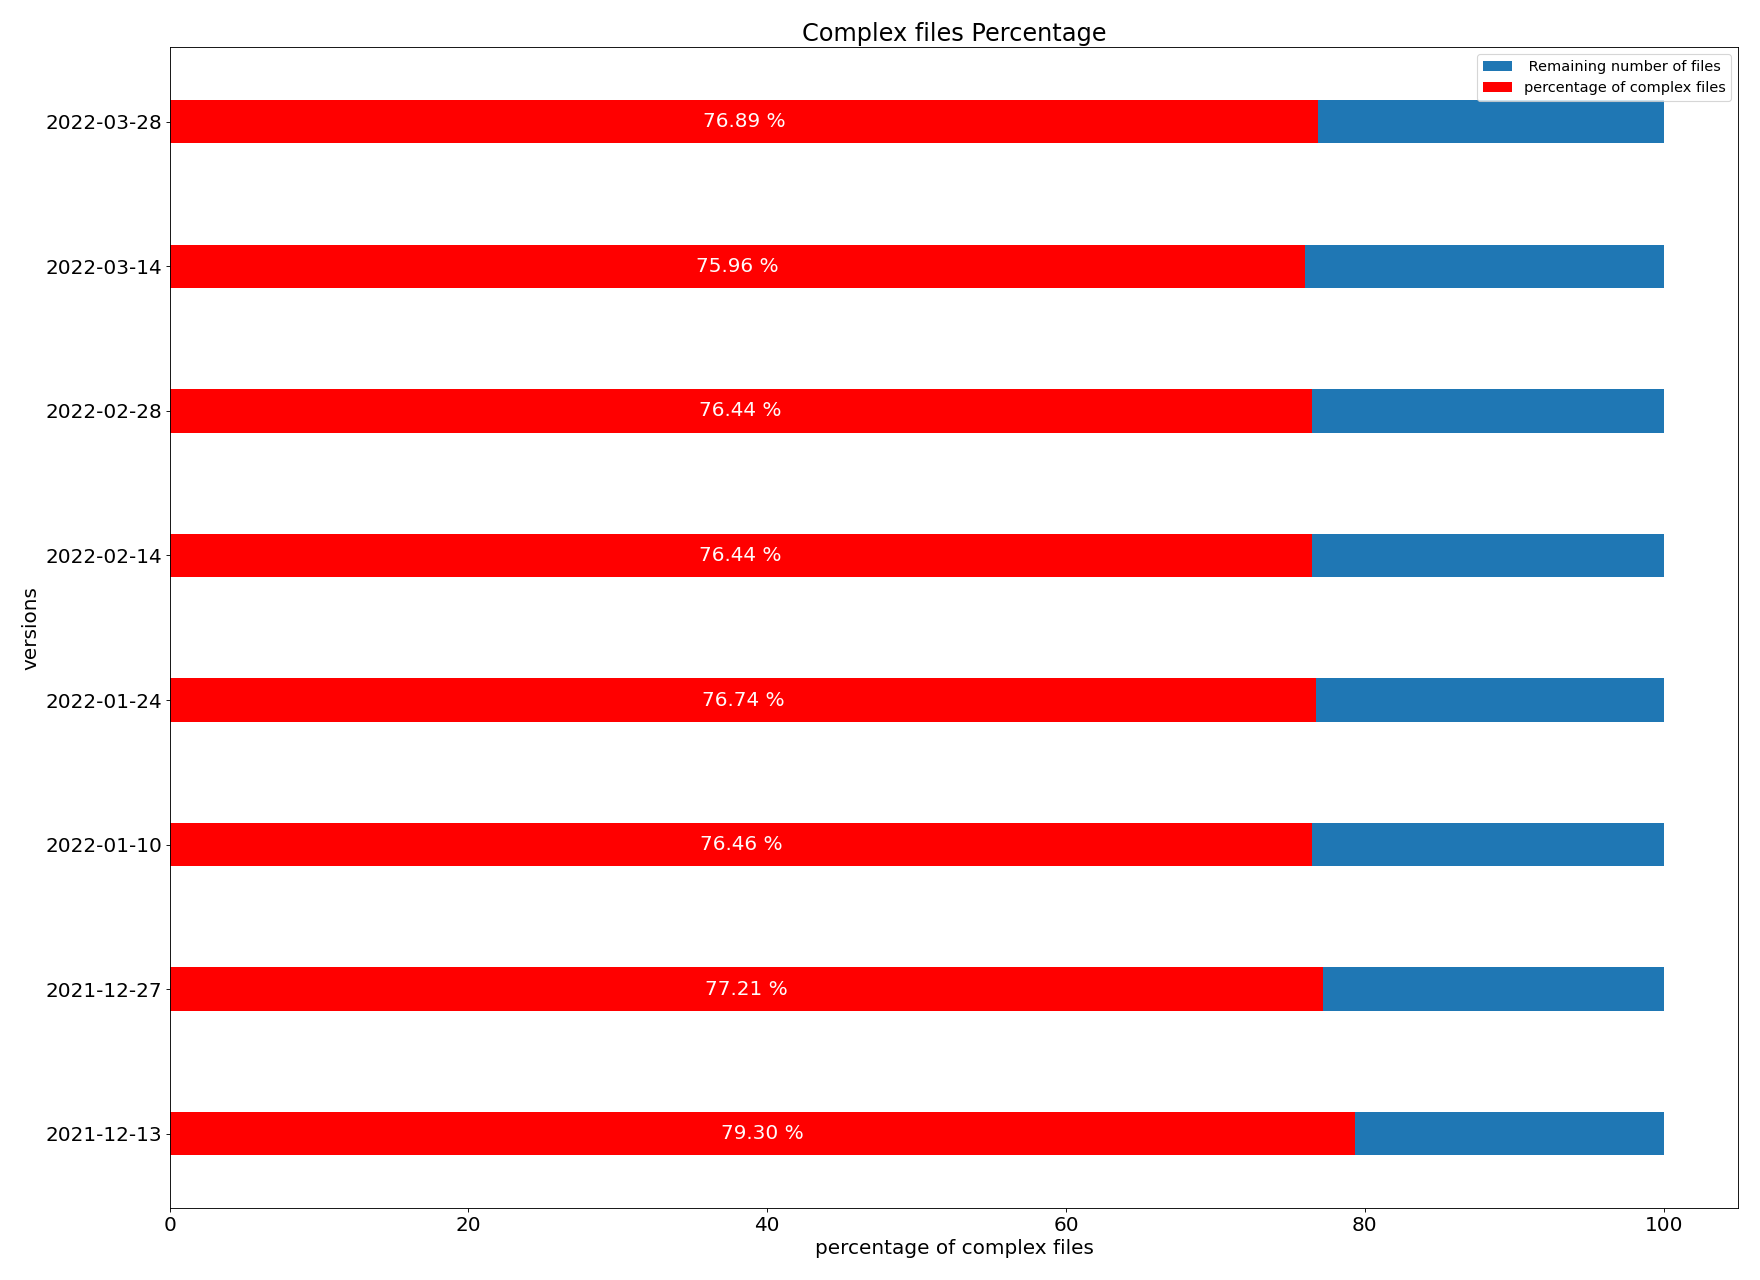
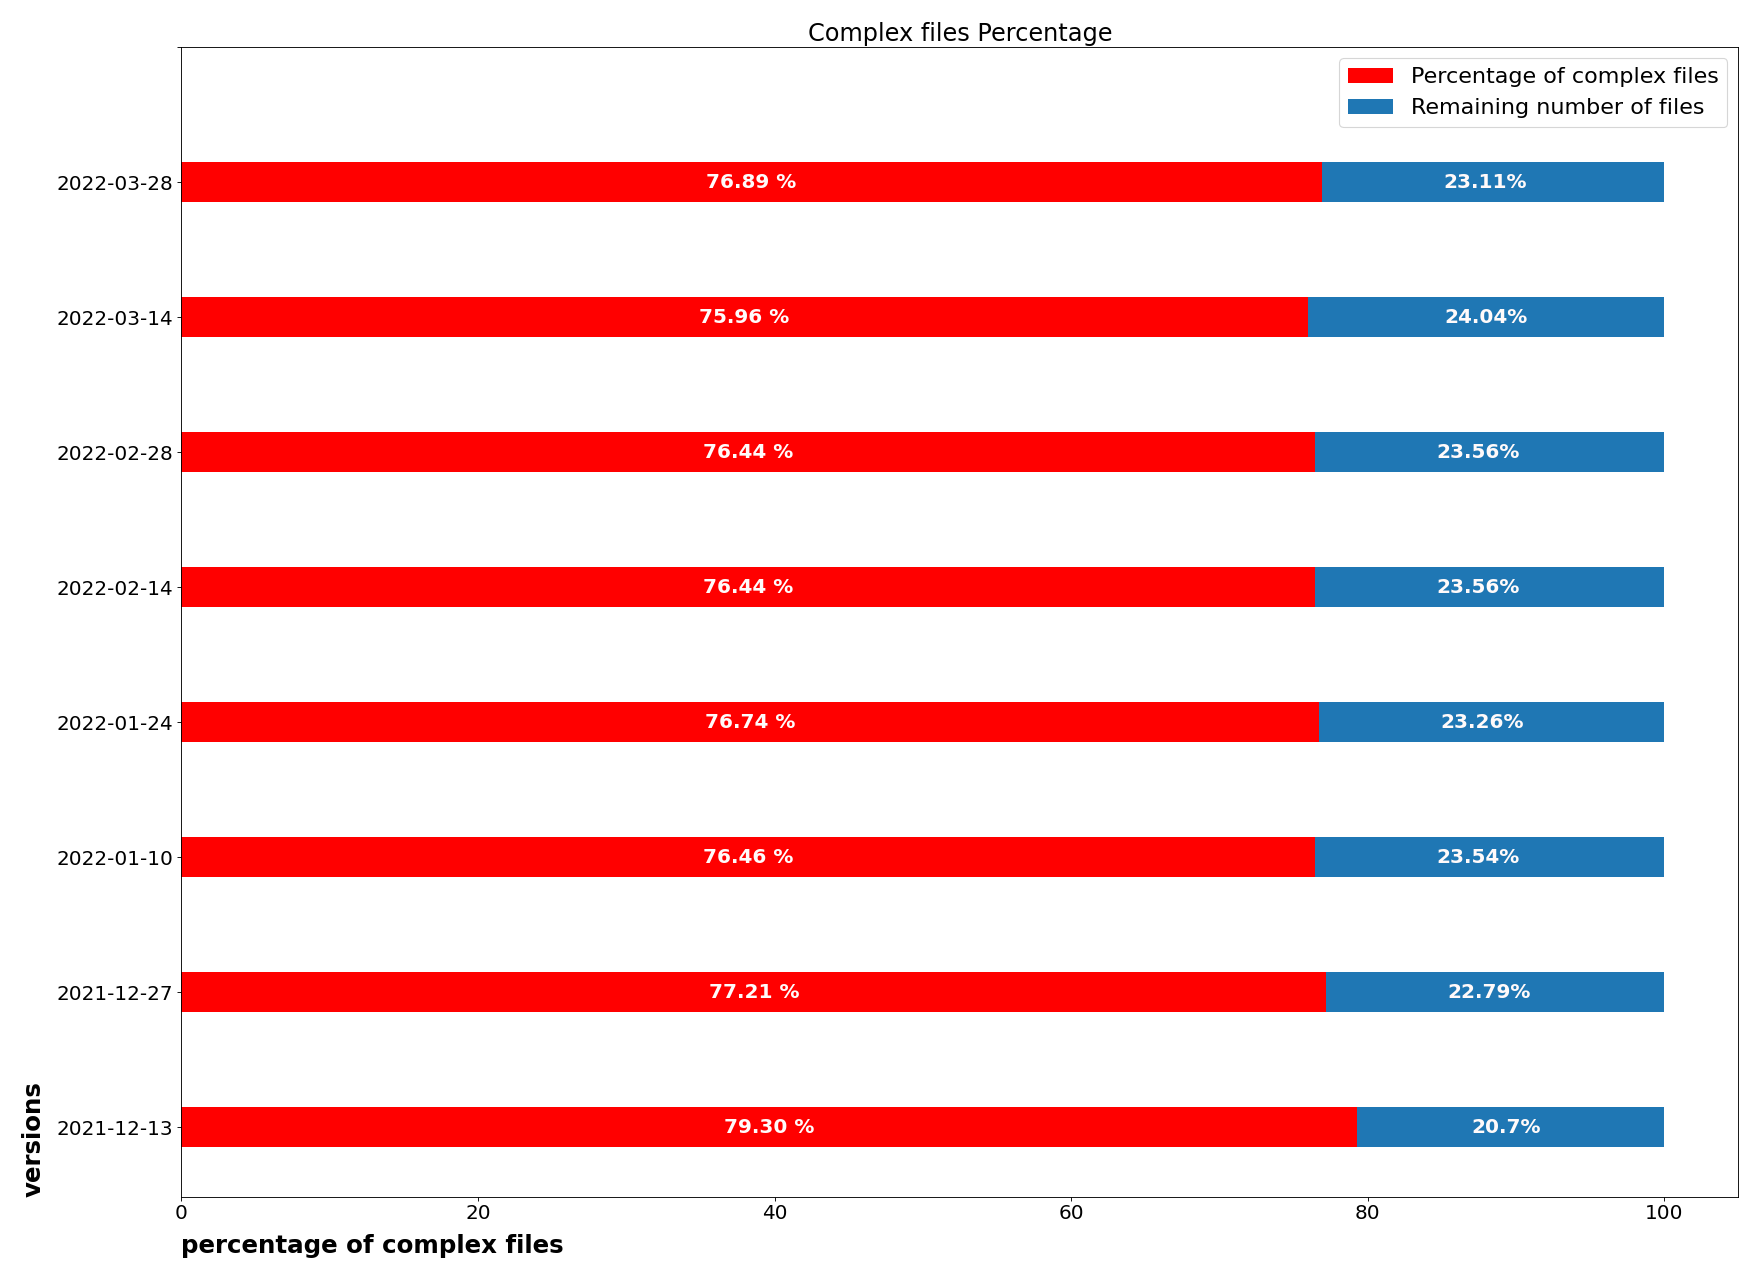
Final changes to files graphs

diff --git a/time-analysis.py b/time-analysis.py
@@ -1,5 +1,6 @@
 import os
 import csv
+from importlib_metadata import version
 import numpy as np
 import matplotlib.pyplot as plt
 from matplotlib.pyplot import figure
@@ -43,17 +44,22 @@ def plot_complex(versions,complex,total,img_path):
     figure(figsize=(22,16), dpi=80)
     #bar1=plt.bar(versions, total, 0.4, label="Remaining number of files")
     #bar2=plt.bar(versions, complex, 0.4,color="r", label="number of complex files")
-    #for i in range(0,len(versions)):
+    for i in range(0,len(versions)):
         #plt.text(i, complex[i]//2,str(complex[i]), color='black', ha='center', fontweight='bold')
-        #plt.text(i, (total[i]-complex[i])//2 +complex[i],str(total[i]), color='black', ha='center', fontweight='bold')
+        plt.text( (total[i]-complex[i])//2 +complex[i],i,str(total[i]-complex[i]), color='snow', va='center',ha='center',fontweight='bold')
     bar1=plt.barh(versions, total, 0.4, label="Remaining number of files")
-    bar2=plt.barh(versions, complex, 0.4,color="r", label="number of complex files")
-    plt.bar_label(bar1,label_type='center',padding=500,color="snow")
-    plt.bar_label(bar2,label_type='center',color="snow")
-    plt.ylabel("versions")
-    plt.xlabel("number of complex files")
+    bar2=plt.barh(versions, complex, 0.4,color="r", label="Number of complex files")
+    plt.bar_label(bar1,padding=5,fontweight='bold')
+    plt.bar_label(bar2,label_type='center',color="snow",fontweight='bold')
+    yt=versions.copy()
+    yt.append("")
+    plt.yticks(yt)
+    plt.ylabel("versions",loc='bottom',labelpad = 10,fontweight='bold',fontsize=22)
+    plt.xlabel("number of complex files",loc='left',labelpad = 10,fontweight='bold',fontsize=22)
     plt.title("Complex files")
-    plt.legend(loc='upper right',prop={'size': 13})
+    handles, labels = plt.gca().get_legend_handles_labels()
+    order = [1,0]
+    plt.legend([handles[idx] for idx in order],[labels[idx] for idx in order],loc='upper right',prop={'size': 20})
     plt.savefig(img_path)
     plt.cla()
     return
@@ -64,15 +70,20 @@ def plot_complex_percentage(versions,complex,total,img_path):
     figure(figsize=(22,16), dpi=80)
     ratios = np.divide(complex,total)
     ratios= np.multiply(ratios,100.0)
-    plt.barh(versions, np.full(len(versions),100), 0.3, label=" Remaining number of files")
-    bar=plt.barh(versions, ratios, 0.3,color="r", label="percentage of complex files")
-    #for i in range(0,len(versions)):
-        #plt.text(i, ratios[i]//2,str(round(ratios[i],2)), color='black', ha='center', fontweight='bold')
-    plt.bar_label(bar,label_type='center',color="snow",fmt="%.2f %%")
-    plt.ylabel("versions")
-    plt.xlabel("percentage of complex files")
+    plt.barh(versions, np.full(len(versions),100), 0.3, label="Remaining number of files")
+    bar=plt.barh(versions, ratios, 0.3,color="r", label="Percentage of complex files")
+    for i in range(0,len(versions)):
+        plt.text(ratios[i]+((100.0-ratios[i])//2), i,str(round(100.0-ratios[i],2))+"%", color='snow',va='center', ha='center',fontweight='bold')
+    plt.bar_label(bar,label_type='center',color="snow",fmt="%.2f %%",fontweight='bold')
+    yt=versions.copy()
+    yt.append("")
+    plt.yticks(yt)
+    plt.ylabel("versions",loc='bottom',labelpad = 10,fontweight='bold',fontsize=22)
+    plt.xlabel("percentage of complex files",loc='left',labelpad = 10,fontweight='bold',fontsize=22)
     plt.title("Complex files Percentage")
-    plt.legend(loc='upper right',prop={'size': 13})
+    handles, labels = plt.gca().get_legend_handles_labels()
+    order = [1,0]
+    plt.legend([handles[idx] for idx in order],[labels[idx] for idx in order],loc='upper right',prop={'size': 20})
     plt.savefig(img_path)
     plt.cla()
     return

diff --git a/static-analysis.py b/static-analysis.py
@@ -16,11 +16,11 @@ def get_ticks(Y_axis):
         #if(vec[i]-vec[i-1]>delta) :
             #res.append(vec[i-1])
    #res.append(vec[len(vec)-1])
-    npv=np.linspace(ymin,ymax,100)
-    res = npv[0::2]
+    npv=np.linspace(ymin,ymax,30)
+    #res = npv[0::2]
     #for x in npv:
         #res.append(x)
-    return res
+    return npv
 
 #avg_cyc[, avg_cogn, max_cyc, max_cogn,min_cyc, min_cogn
 def print_bar_plot(x,vec,img_path,title): 
@@ -46,10 +46,10 @@ def print_bar_plot(x,vec,img_path,title):
     #    for j in range(0,len(Y_axis[i])):
     #        plt.text(V_axis[i][j], Y_axis[i][j]//2,str(round(Y_axis[i][j],2)), color='black', ha='center', fontweight='bold')
     #plt.yticks(rotation='vertical')
-    plt.xticks(get_ticks(Y_axis),rotation="vertical")
+    plt.xticks(get_ticks(Y_axis),rotation=45)
     plt.xlim(min_y)
-    plt.xlabel("projects")
-    plt.ylabel("Complexity")
+    plt.xlabel("projects",loc='left',labelpad = 10,fontweight='bold',fontsize=22)
+    plt.ylabel("Complexity",loc='bottom',labelpad = 10,fontweight='bold',fontsize=22)
     plt.title(title)
     plt.legend()
     plt.savefig(img_path)
